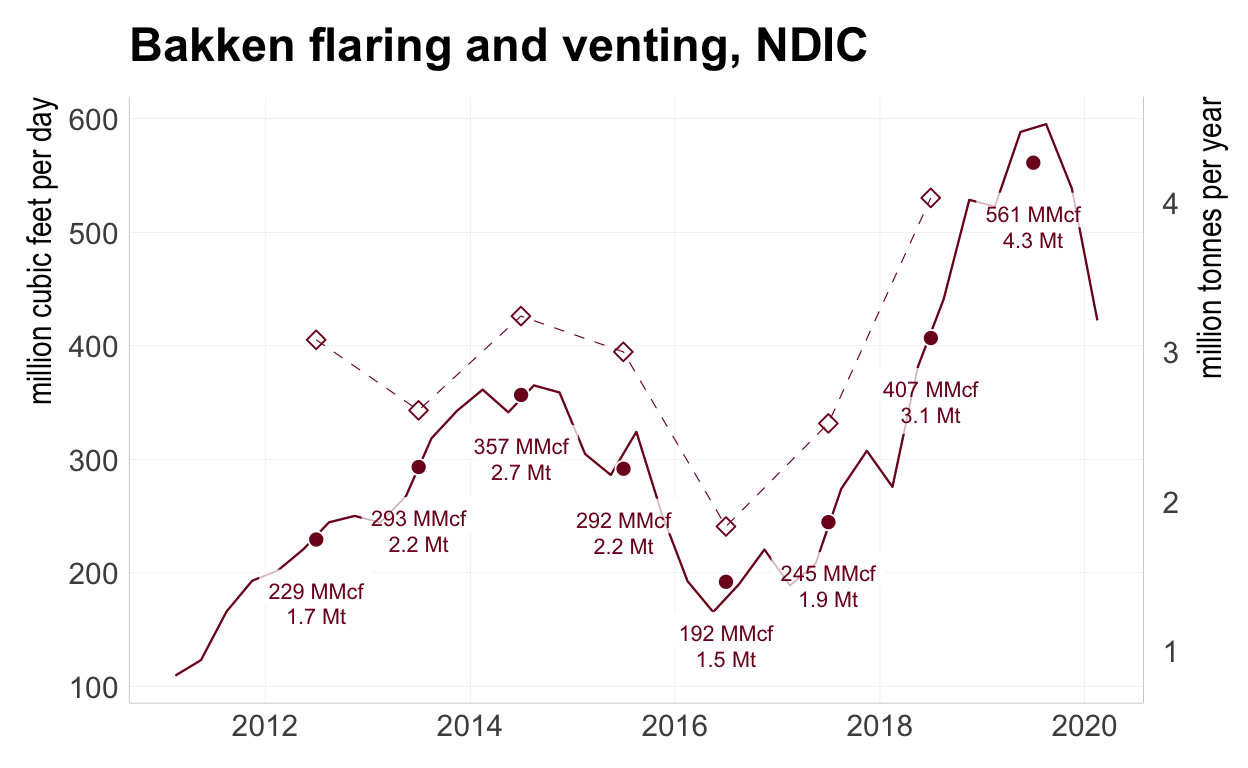
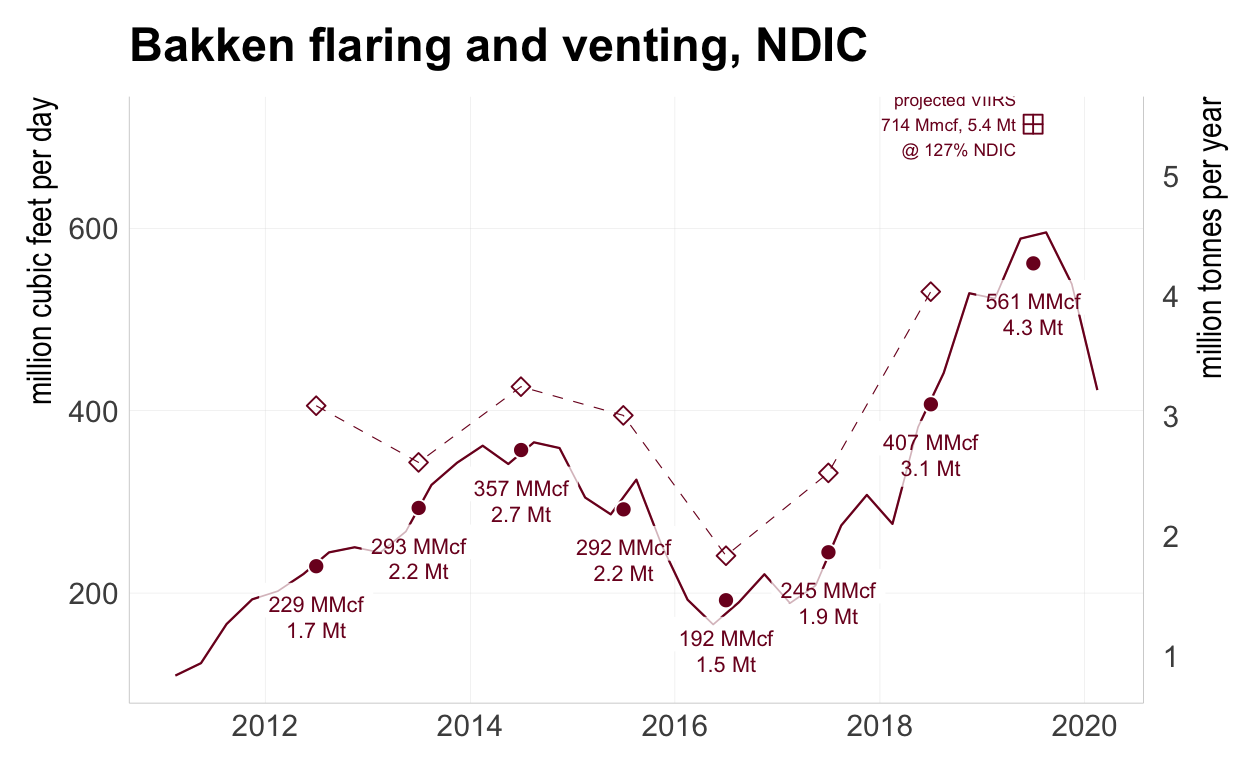
aa

diff --git a/blog/_posts/2020-09-25-tropomi-and-gas-emsissions/tropomi-and-gas-emsissions.html b/blog/_posts/2020-09-25-tropomi-and-gas-emsissions/tropomi-and-gas-emsissions.html
@@ -1212,9 +1212,9 @@ Figure 4: Bakken
 </div>
 <div class="layout-chunk" data-layout="l-body">
 <div class="figure"><span id="fig:fig-ndg-flare"></span>
-<img src="tropomi-and-gas-emsissions_files/figure-html5/fig-ndg-flare-1.png" alt="Estimates of gas flaring in the  Bakken by quarter, data from North Dakota Industrial Commission, https://www.dmr.nd.gov/oilgas/stats/Gas1990ToPresent.xls. Diamonds are flaring estimates from VIIRS satellite analysis." width="624" />
+<img src="tropomi-and-gas-emsissions_files/figure-html5/fig-ndg-flare-1.png" alt="Estimates of gas flaring in the North Dakotan production by quarter, data from NDIC, https://www.dmr.nd.gov/oilgas/stats/Gas1990ToPresent.xls. Diamonds are flaring estimates from VIIRS satellite analysis, for the North Dakota flaring. Crossed square is the projected VIIRS flaring based on historic ratio for the priod 2013-2018." width="624" />
 <p class="caption">
-Figure 5: Estimates of gas flaring in the Bakken by quarter, data from North Dakota Industrial Commission, <a href="https://www.dmr.nd.gov/oilgas/stats/Gas1990ToPresent.xls" class="uri">https://www.dmr.nd.gov/oilgas/stats/Gas1990ToPresent.xls</a>. Diamonds are flaring estimates from VIIRS satellite analysis.
+Figure 5: Estimates of gas flaring in the North Dakotan production by quarter, data from NDIC, <a href="https://www.dmr.nd.gov/oilgas/stats/Gas1990ToPresent.xls" class="uri">https://www.dmr.nd.gov/oilgas/stats/Gas1990ToPresent.xls</a>. Diamonds are flaring estimates from VIIRS satellite analysis, for the North Dakota flaring. Crossed square is the projected VIIRS flaring based on historic ratio for the priod 2013-2018.
 </p>
 </div>
 </div>
@@ -1579,14 +1579,14 @@ unacc. %
 </div>
 <div class="layout-chunk" data-layout="l-body">
 <div class="figure"><span id="fig:fig-bakken-3"></span>
-<img src="tropomi-and-gas-emsissions_files/figure-html5/fig-bakken-3-1.png" alt="Bakken" width="624" />
+<img src="tropomi-and-gas-emsissions_files/figure-html5/fig-bakken-3-1.png" alt="Bakken unsold production. Dashed line shows  volumes adjusted  for historic VIIR estimates - see text for disussion." width="624" />
 <p class="caption">
-Figure 6: Bakken
+Figure 6: Bakken unsold production. Dashed line shows volumes adjusted for historic VIIR estimates - see text for disussion.
 </p>
 </div>
 </div>
 <h3 id="viirs">VIIRS</h3>
-<p>The estimates of flaring in the Bakken are significantly higher than the flaring volumes reported by the North Dakota Industrial Commission.</p>
+<p>The estimates of flaring in the Bakken are consistently higher than the flaring volumes reported by the North Dakota Industrial Commission, by a significant amount. For the period 2013 to 2018, the NVIIR estimates average 127% <!-- 127%  --> higher than the flared volumes reported by ..</p>
 <h2 id="co2-e-emissions">CO<sub>2</sub>-e emissions</h2>
 <p>For the Bakken, <span class="citation" data-cites="s">(<span class="citeproc-not-found" data-reference-id="s"><strong>???</strong></span>)</span> estimates total methane venting form all sources across 2018 and 2019 average 0.89±0.56 millions tonnes per year. As shown in Table that is simmilar to wht 1.02 million tonnes average of the “unaccounted” gas. Assuming that the “unaccounted” gas in the North Dakota is a proxy for the venting then we can make an estimate of the CO<sub>2</sub>-equivalent budget summing the flared gas as CO<sub>2</sub>, assuming 100% efficiency, and the methane venting at an appropriate time scale. Figs … show the CO2-e using global worming potential for CH<sub>4</sub> appropriate to 20 yeras (x86 CO<sub>2</sub> GWP) and 100 years (x 34 CO<sub>2</sub> GWP)</p>
 <p>As flaring is generally not 100% efficient,</p>
@@ -1628,6 +1628,7 @@ Figure 9: Distribution and volumes gas flaring in the Permian and Bakken for 201
 </div>
 </div>
 <h3 id="viirs-flaring-estimates">VIIRS flaring estimates</h3>
+<p>The VIIRS estimates of flaring in the Permian are similar to the flaring volumes reported by Rystad. For the period 2013 to 2018, the NVIIR estimates average 97% Rystad.</p>
 <h1 id="appendices">Appendices</h1>
 <p>Several other data sets are available.</p>
 <p>## EIA</p>

diff --git a/blog/_site/posts/2020-09-25-tropomi-and-gas-emsissions/index.html b/blog/_site/posts/2020-09-25-tropomi-and-gas-emsissions/index.html
@@ -1826,9 +1826,9 @@ Figure 4: Bakken
 </div>
 <div class="layout-chunk" data-layout="l-body">
 <div class="figure"><span id="fig:fig-ndg-flare"></span>
-<img src="tropomi-and-gas-emsissions_files/figure-html5/fig-ndg-flare-1.png" alt="Estimates of gas flaring in the  Bakken by quarter, data from North Dakota Industrial Commission, https://www.dmr.nd.gov/oilgas/stats/Gas1990ToPresent.xls. Diamonds are flaring estimates from VIIRS satellite analysis." width="624" />
+<img src="tropomi-and-gas-emsissions_files/figure-html5/fig-ndg-flare-1.png" alt="Estimates of gas flaring in the North Dakotan production by quarter, data from NDIC, https://www.dmr.nd.gov/oilgas/stats/Gas1990ToPresent.xls. Diamonds are flaring estimates from VIIRS satellite analysis, for the North Dakota flaring. Crossed square is the projected VIIRS flaring based on historic ratio for the priod 2013-2018." width="624" />
 <p class="caption">
-Figure 5: Estimates of gas flaring in the Bakken by quarter, data from North Dakota Industrial Commission, <a href="https://www.dmr.nd.gov/oilgas/stats/Gas1990ToPresent.xls" class="uri">https://www.dmr.nd.gov/oilgas/stats/Gas1990ToPresent.xls</a>. Diamonds are flaring estimates from VIIRS satellite analysis.
+Figure 5: Estimates of gas flaring in the North Dakotan production by quarter, data from NDIC, <a href="https://www.dmr.nd.gov/oilgas/stats/Gas1990ToPresent.xls" class="uri">https://www.dmr.nd.gov/oilgas/stats/Gas1990ToPresent.xls</a>. Diamonds are flaring estimates from VIIRS satellite analysis, for the North Dakota flaring. Crossed square is the projected VIIRS flaring based on historic ratio for the priod 2013-2018.
 </p>
 </div>
 </div>
@@ -2193,14 +2193,14 @@ unacc. %
 </div>
 <div class="layout-chunk" data-layout="l-body">
 <div class="figure"><span id="fig:fig-bakken-3"></span>
-<img src="tropomi-and-gas-emsissions_files/figure-html5/fig-bakken-3-1.png" alt="Bakken" width="624" />
+<img src="tropomi-and-gas-emsissions_files/figure-html5/fig-bakken-3-1.png" alt="Bakken unsold production. Dashed line shows  volumes adjusted  for historic VIIR estimates - see text for disussion." width="624" />
 <p class="caption">
-Figure 6: Bakken
+Figure 6: Bakken unsold production. Dashed line shows volumes adjusted for historic VIIR estimates - see text for disussion.
 </p>
 </div>
 </div>
 <h3 id="viirs">VIIRS</h3>
-<p>The estimates of flaring in the Bakken are significantly higher than the flaring volumes reported by the North Dakota Industrial Commission.</p>
+<p>The estimates of flaring in the Bakken are consistently higher than the flaring volumes reported by the North Dakota Industrial Commission, by a significant amount. For the period 2013 to 2018, the NVIIR estimates average 127% <!-- 127%  --> higher than the flared volumes reported by ..</p>
 <h2 id="co2-e-emissions">CO<sub>2</sub>-e emissions</h2>
 <p>For the Bakken, <span class="citation" data-cites="s">(<span class="citeproc-not-found" data-reference-id="s"><strong>???</strong></span>)</span> estimates total methane venting form all sources across 2018 and 2019 average 0.89±0.56 millions tonnes per year. As shown in Table that is simmilar to wht 1.02 million tonnes average of the “unaccounted” gas. Assuming that the “unaccounted” gas in the North Dakota is a proxy for the venting then we can make an estimate of the CO<sub>2</sub>-equivalent budget summing the flared gas as CO<sub>2</sub>, assuming 100% efficiency, and the methane venting at an appropriate time scale. Figs … show the CO2-e using global worming potential for CH<sub>4</sub> appropriate to 20 yeras (x86 CO<sub>2</sub> GWP) and 100 years (x 34 CO<sub>2</sub> GWP)</p>
 <p>As flaring is generally not 100% efficient,</p>
@@ -2242,6 +2242,7 @@ Figure 9: Distribution and volumes gas flaring in the Permian and Bakken for 201
 </div>
 </div>
 <h3 id="viirs-flaring-estimates">VIIRS flaring estimates</h3>
+<p>The VIIRS estimates of flaring in the Permian are similar to the flaring volumes reported by Rystad. For the period 2013 to 2018, the NVIIR estimates average 97% Rystad.</p>
 <h1 id="appendices">Appendices</h1>
 <p>Several other data sets are available.</p>
 <p>## EIA</p>

diff --git a/blog/_site/index.html b/blog/_site/index.html
@@ -2082,7 +2082,7 @@ function init_posts_list() {
 <a href="posts/2020-09-25-tropomi-and-gas-emsissions/" class="post-preview">
 <script class="post-metadata" type="text/json">{"categories":[]}</script>
 <div class="metadata">
-<div class="publishedDate">Sept. 25, 2020</div>
+<div class="publishedDate">Sept. 24, 2020</div>
 <div class="dt-authors">
 <div class="dt-author">Mike Sandiford</div>
 </div>
